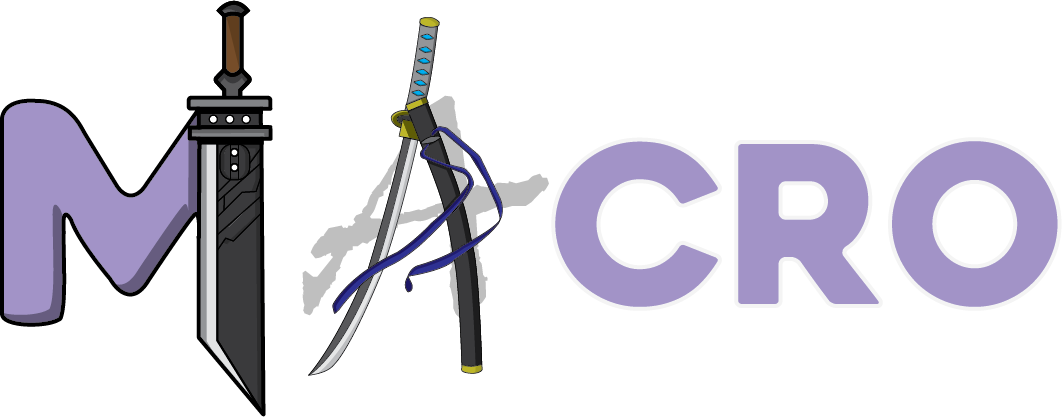
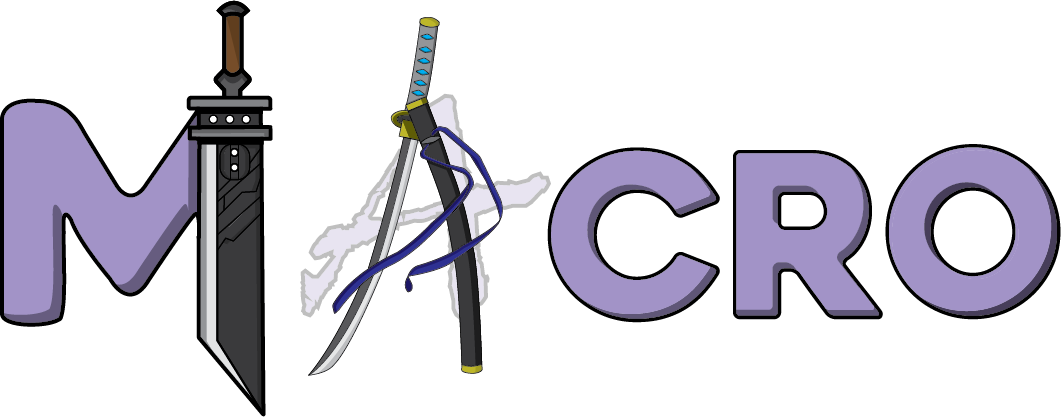
glass effect and modules added

Changed region(s): [[0.2799, 0.1871, 1.0, 0.8106]]

diff --git a/Macro/client/src/App.jsx b/Macro/client/src/App.jsx
@@ -3,13 +3,15 @@ import reactLogo from './assets/react.svg'
 import viteLogo from './assets/vite.svg'
 import heroImg from './assets/hero.png'
 import Header from './components/header/header.jsx'
+import Module from './components/module/module.jsx'
 import './App.css'
 
 function App() {
   return (
     <div>
       <div className="bg">
-        <Header/> 
+        <Header/>
+        <Module/> 
       </div>
     </div>
   )

diff --git a/Macro/client/src/components/module/module.jsx b/Macro/client/src/components/module/module.jsx
@@ -1,0 +1,12 @@
+import '../../index.css'
+
+function Module() {
+    return(
+        <div>
+            <div className="isolate aspect-video w-96 rounded-xl bg-gradient-to-br from-[#EABFFF]/20 to-[#8726B7]/1 shadow-lg ring-1 ring-[#D298FF]/20"></div>
+        </div>
+    );
+}
+//#8726B7
+
+export default Module
